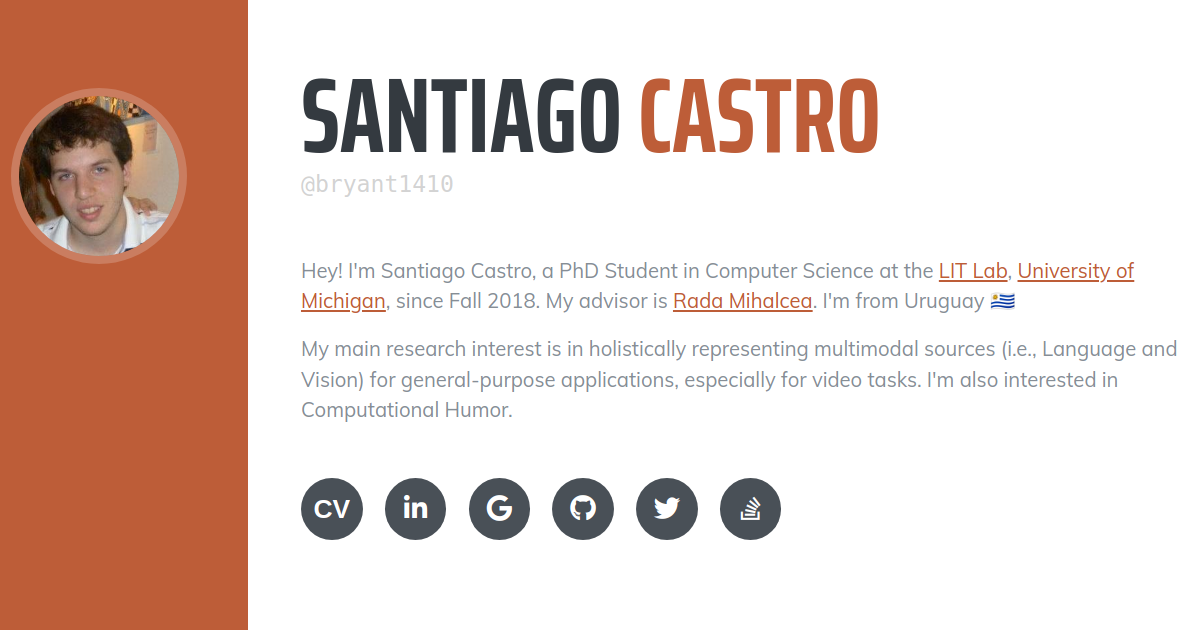
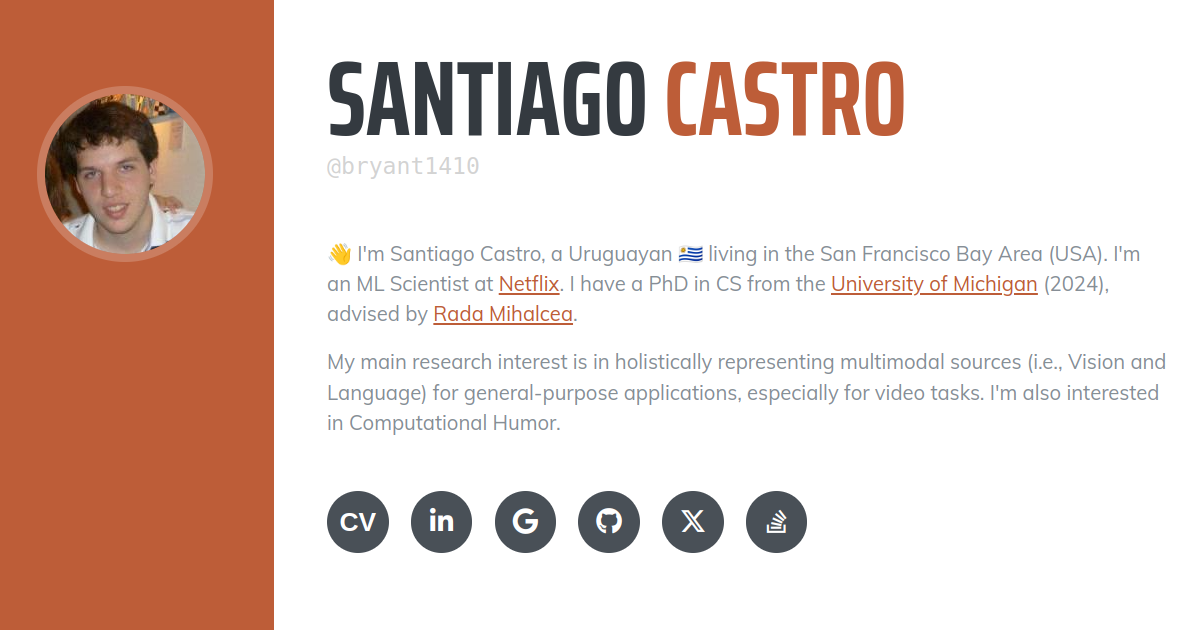
Update the description and OpenGraph image

Changed region(s): [[0.0, 0.0, 0.9867, 1.0]]

diff --git a/index.html b/index.html
@@ -20,7 +20,7 @@
   <meta charset="utf-8">
   <meta name="viewport" content="width=device-width, initial-scale=1, shrink-to-fit=no">
   <meta name="description"
-        content="Hey! I'm Santiago Castro, a CS PhD Student at the LIT Lab, University of Michigan, since Fall 2018. My advisor is Rada Mihalcea. I'm from Uruguay 🇺🇾 My main research interest is in holistically representing multimodal sources (i.e., Language and Vision) for general-purpose applications, esp. for video tasks. I'm also interested in Computational Humor.">
+        content="👋 I'm Santiago Castro, a Uruguayan 🇺🇾 living in the San Francisco Bay Area (USA). I work as an ML Scientist at Netflix. I have a PhD in CS from the University of Michigan (2024), advised by Rada Mihalcea. My main research interest is in holistically representing multimodal sources (i.e., Vision and Language) for general-purpose applications, especially for video tasks. I'm also interested in Computational Humor.">
   <meta name="author" content="Santiago Castro (bryant1410)">
   <meta property="og:title" content="Santiago Castro">
   <meta property="og:type" content="profile">
@@ -30,7 +30,7 @@
   <meta property="profile:username" content="bryant1410">
   <meta property="og:url" content="https://santi.uy/">
   <meta property="og:description"
-        content="Hey! I'm Santiago Castro, a CS PhD Student at the LIT Lab, University of Michigan, since Fall 2018.">
+        content="👋 I'm Santiago Castro, a Uruguayan 🇺🇾 living in the San Francisco Bay Area (USA). I'm an ML Scientist at Netflix.">
   <meta property="og:locale" content="en_US">
   <meta property="og:image" content="https://santi.uy/img/opengraph.png">
   <meta property="og:image:type" content="image/png">
@@ -296,15 +296,14 @@
       </div>
       <!--suppress GrazieInspection -->
       <p class="lead mb-3">
-        Hey!
-        I'm Santiago Castro, a CS PhD Student at the <a href="https://lit.eecs.umich.edu">LIT Lab</a>,
-        <a href="https://umich.edu">University of Michigan</a>, since Fall 2018.
-        My advisor is <a href="https://web.eecs.umich.edu/~mihalcea/">Rada Mihalcea</a>.
-        I'm from Uruguay&nbsp;🇺🇾
+        👋 I'm Santiago Castro, a Uruguayan&nbsp;🇺🇾 living in the San Francisco Bay Area (USA).
+        I'm an ML Scientist at <a href="https://www.netflix.com/">Netflix</a>. I have a PhD in CS from the
+        <a href="https://umich.edu">University of Michigan</a> (2024), advised by
+        <a href="https://web.eecs.umich.edu/~mihalcea/">Rada Mihalcea</a>.
       </p>
       <p class="lead mb-4 mb-lg-5">
         My main research interest is in holistically representing multimodal sources
-        (i.e., Language and Vision) for general-purpose applications, especially for video tasks.
+        (i.e., Vision and Language) for general-purpose applications, especially for video tasks.
         I'm also interested in Computational Humor.
       </p>
       <div class="social-icons">
